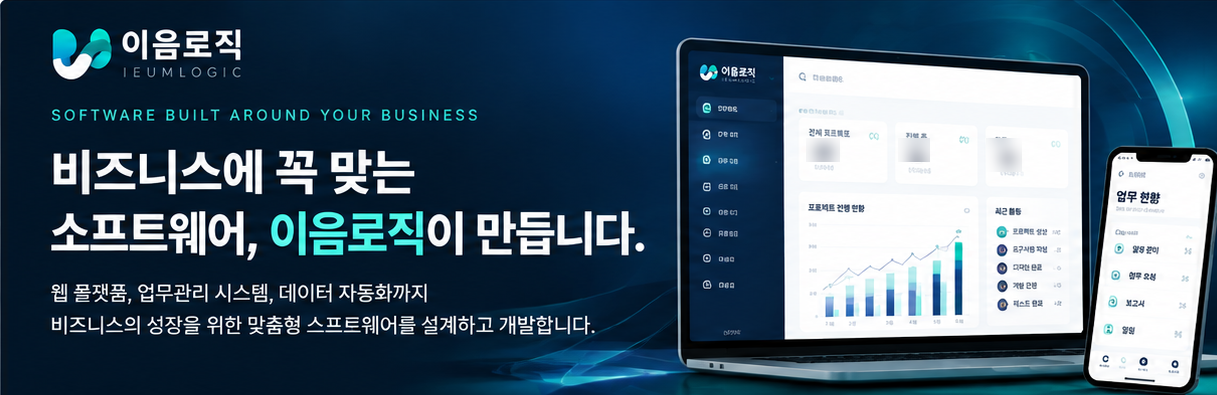
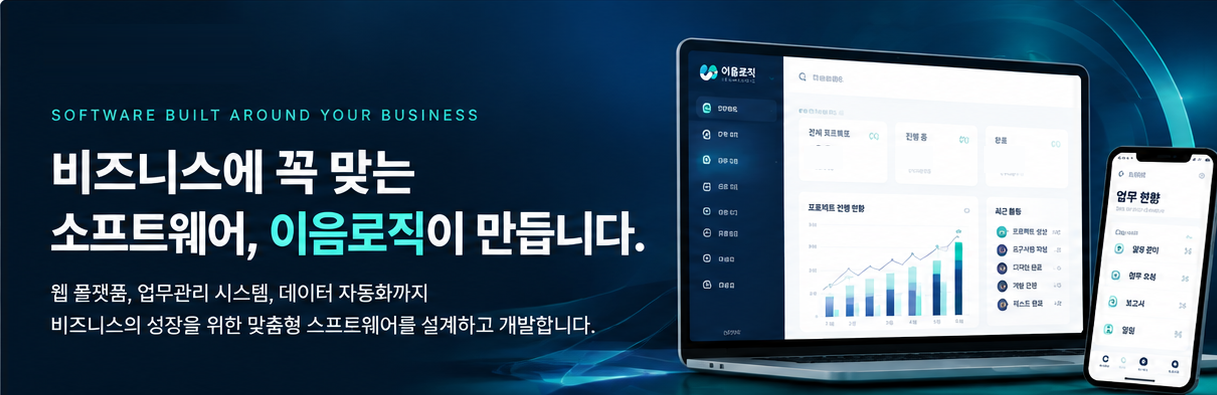
fix: 히어로 배너 로고를 사이트 로고와 맞추고 숫자 가림을 선명하게 - 배너에 구워진 다른 로고는 지우고, 사이트 헤더·푸터와 같은 마크와 이음로직 글자를 HTML로 얹음. 숫자 칸은 흐림 대신 카드 바탕색으로 덮어 번진 느낌을 없앰. 배너는 원본 해상도(1217px)를 넘겨 확대하지 않음

diff --git a/backend/static/index.html b/backend/static/index.html
@@ -65,7 +65,10 @@ h1,h2,h3{text-wrap:balance}
 /* 히어로 배너 이미지 */
 .sr-only{position:absolute;width:1px;height:1px;padding:0;margin:-1px;overflow:hidden;clip:rect(0,0,0,0);white-space:nowrap;border:0}
 .hero-wrap{padding:48px 0 64px}
+.hero-visual{position:relative;container-type:inline-size;max-width:1217px}
 .hero-img{display:block;width:100%;height:auto;border-radius:14px}
+.hero-logo{position:absolute;left:4.27%;top:2.3cqw;display:flex;align-items:center;gap:.7cqw;color:#fff;font-size:2.6cqw;font-weight:900;letter-spacing:-.02em;line-height:1}
+.hero-logo svg{width:4.8cqw;height:4.8cqw;flex-shrink:0}
 .hero-foot{margin-top:32px;display:flex;flex-direction:column;gap:28px}
 /* 히어로 목업 (설계 예시 - 실제 수치 없음) */
 .mock{position:relative;padding:0 0 40px}
@@ -243,7 +246,10 @@ section.block.soft{background:var(--soft)}
   <section class="hero dark">
     <div class="wrap hero-wrap">
       <h1 class="sr-only">비즈니스에 꼭 맞는 소프트웨어, 이음로직이 만듭니다.</h1>
-      <img class="hero-img" src="/pages/assets/home/hero_banner.png" width="1217" height="395" alt="이음로직 - 웹 플랫폼, 업무관리 시스템, 데이터 자동화까지 비즈니스의 성장을 위한 맞춤형 소프트웨어를 설계하고 개발합니다.">
+      <div class="hero-visual">
+        <img class="hero-img" src="/pages/assets/home/hero_banner.png" width="1217" height="395" alt="이음로직 - 웹 플랫폼, 업무관리 시스템, 데이터 자동화까지 비즈니스의 성장을 위한 맞춤형 소프트웨어를 설계하고 개발합니다.">
+        <a class="hero-logo" href="/" aria-label="이음로직 홈"><svg viewBox="0 0 42 42" fill="none" aria-hidden="true"><circle cx="16" cy="21" r="11" stroke="#57E5D4" stroke-width="3.5"/><circle cx="27" cy="21" r="11" stroke="#ffffff" stroke-width="3.5"/></svg><span>이음로직</span></a>
+      </div>
       <div class="hero-foot">
         <div class="hero-actions">
           <a class="btn mint" href="#contact">프로젝트 상담하기 →</a>
